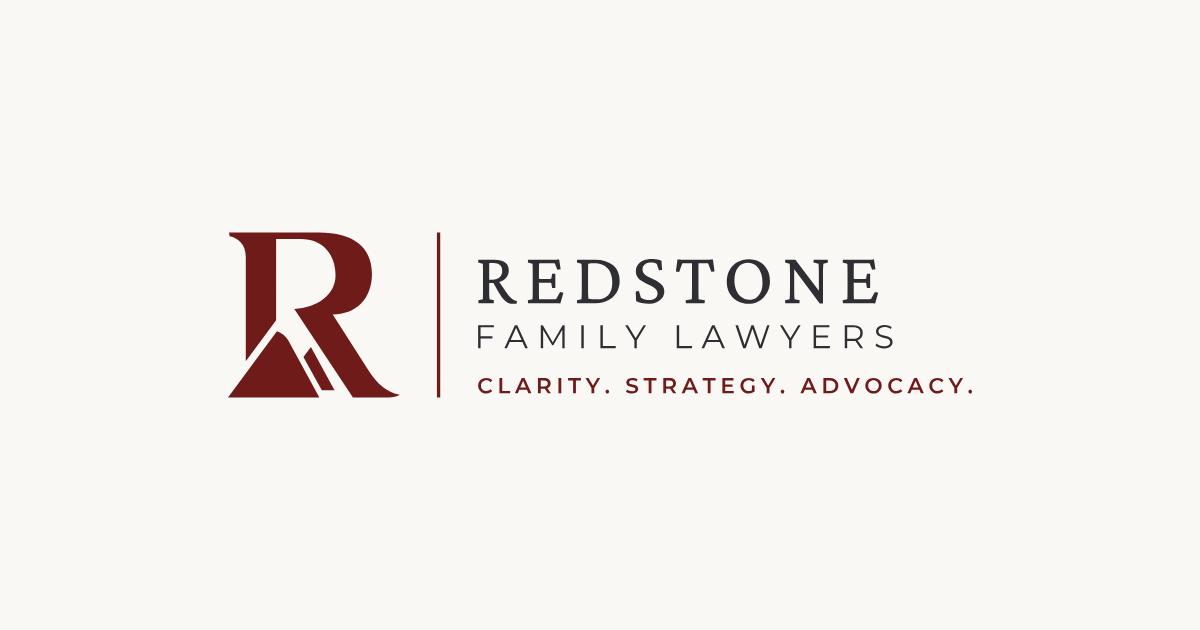
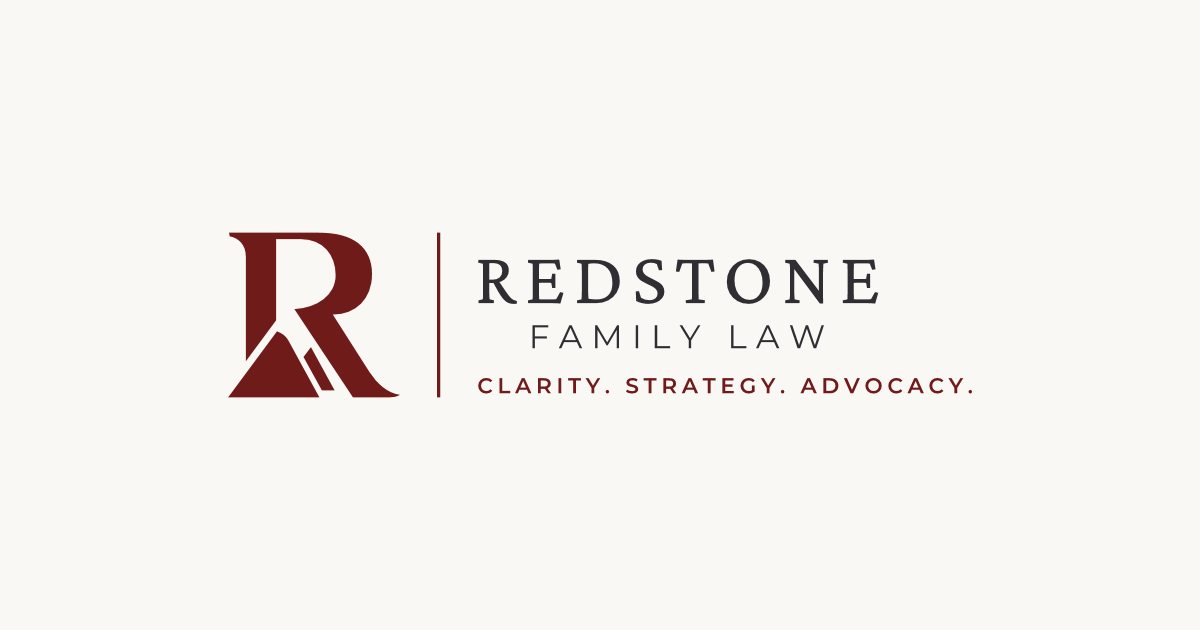
Rename firm to Redstone Family Law
The firm changed its name from "Redstone Family Lawyers" to
"Redstone Family Law". This updates the site to match:

- Re-letter the logo wordmark. The lockups are outlined vector
  paths, not live text, so the YERS glyphs are removed and the
  remaining FAMILY LAW run is re-centred under REDSTONE at the
  original 0.2em tracking rather than tracked out to fill.
- Update copy, alt text, aria-labels, NAP blocks and JSON-LD name.
  Descriptive uses of "family lawyer" as a profession or search
  term are deliberately left alone.
- Add alternateName so search engines bridge the old brand name.
- Point canonical and OG URLs at redstonefamilylaw.vercel.app.
- Regenerate og-image from the updated lockup.

Changed region(s): [[0.4008, 0.5127, 0.74, 0.573]]

diff --git a/index.html b/index.html
@@ -13,15 +13,15 @@
 <meta name="theme-color" content="#6F1B1A">
 
 <meta name="robots" content="noindex, nofollow">
-<link rel="canonical" href="https://redstonefamilylawyers.vercel.app/">
-<meta property="og:url" content="https://redstonefamilylawyers.vercel.app/">
+<link rel="canonical" href="https://redstonefamilylaw.vercel.app/">
+<meta property="og:url" content="https://redstonefamilylaw.vercel.app/">
 <meta property="og:type" content="website">
 <meta property="og:title" content="Family Lawyer in Red Deer, AB | Clarity, Strategy, Advocacy">
 <meta property="og:description" content="Flat-rate pricing, a same-day response for real emergencies, and a Red Deer family lawyer who explains your options in plain language before you decide.">
-<meta property="og:image" content="https://redstonefamilylawyers.vercel.app/og-image-1200x630.png">
+<meta property="og:image" content="https://redstonefamilylaw.vercel.app/og-image-1200x630.png">
 <meta property="og:image:width" content="1200">
 <meta property="og:image:height" content="630">
-<meta property="og:image:alt" content="Redstone Family Lawyers logo">
+<meta property="og:image:alt" content="Redstone Family Law logo">
 <meta name="twitter:card" content="summary_large_image">
 
 <link rel="preconnect" href="https://fonts.googleapis.com">
@@ -37,7 +37,8 @@
 {
   "@context": "https://schema.org",
   "@type": "LegalService",
-  "name": "Redstone Family Lawyers",
+  "name": "Redstone Family Law",
+  "alternateName": "Redstone Family Lawyers",
   "description": "Family law practice in Red Deer, Alberta: separation and divorce, parenting and custody, family property division, child support, family agreements, and protection and emergency matters.",
   "address": {
     "@type": "PostalAddress",
@@ -95,8 +96,8 @@
     <div class="siteheader__fill" aria-hidden="true"></div>
     <div class="siteheader__inner">
 
-      <a class="brand" href="#top" aria-label="Redstone Family Lawyers — back to top">
-        <img class="brand__mark brand__mark--dark" src="assets/logo/logo.svg" alt="Redstone Family Lawyers" width="403" height="100">
+      <a class="brand" href="#top" aria-label="Redstone Family Law — back to top">
+        <img class="brand__mark brand__mark--dark" src="assets/logo/logo.svg" alt="Redstone Family Law" width="403" height="100">
         <img class="brand__mark brand__mark--light" src="assets/logo/logo-white.svg" alt="" aria-hidden="true" width="403" height="100">
       </a>
 
@@ -217,7 +218,7 @@
 <div class="mobilesheet" id="mobilesheet" data-open="false" aria-hidden="true">
   <div class="mobilesheet__panel" role="dialog" aria-modal="true" aria-label="Site Menu">
     <div class="mobilesheet__head">
-      <img src="assets/logo/logo-white.svg" alt="Redstone Family Lawyers" width="403" height="100">
+      <img src="assets/logo/logo-white.svg" alt="Redstone Family Law" width="403" height="100">
       <button class="mobilesheet__close" type="button" aria-label="Close Menu">
         <svg viewBox="0 0 24 24" aria-hidden="true" focusable="false"><path d="M18 6 6 18M6 6l12 12"/></svg>
       </button>
@@ -654,7 +655,7 @@
           <span class="founder__topo-plate" aria-hidden="true"></span>
           <span class="founder__mono" aria-hidden="true">EO</span>
           <img class="founder__photo" src="assets/images/emmanuel-oyesomi-red-deer-family-lawyer.webp"
-               alt="Emmanuel Oyesomi, founder and family lawyer at Redstone Family Lawyers in Red Deer"
+               alt="Emmanuel Oyesomi, founder and family lawyer at Redstone Family Law in Red Deer"
                width="512" height="512" loading="lazy" decoding="async">
         </div>
         <figcaption class="founder__cap"><span class="founder__cap-rule" aria-hidden="true"></span>Emmanuel Oyesomi · Founder</figcaption>
@@ -886,12 +887,12 @@
         <div class="gbpcard">
           <div class="gbpcard__map">
             <iframe src="https://www.google.com/maps/embed?pb=!1m18!1m12!1m3!1d2441.600791727196!2d-113.81473902305673!3d52.26879397199641!2m3!1f0!2f0!3f0!3m2!1i1024!2i768!4f13.1!3m3!1m2!1s0x5374542f9d2ec0a1%3A0x8d4d8fe324da6d28!2s4909%2050%20St%20Ste%20200%2C%20Red%20Deer%2C%20AB%20T4N%206X2!5e0!3m2!1sen!2sca!4v1790099347766!5m2!1sen!2sca"
-                    title="Google Map showing Redstone Family Lawyers at 4909 50 St, Suite 200, Red Deer, AB"
+                    title="Google Map showing Redstone Family Law at 4909 50 St, Suite 200, Red Deer, AB"
                     width="400" height="300" loading="lazy" allowfullscreen
                     referrerpolicy="strict-origin-when-cross-origin"></iframe>
           </div>
           <div class="gbpcard__meta">
-            <p class="gbpcard__name">Redstone Family Lawyers</p>
+            <p class="gbpcard__name">Redstone Family Law</p>
             <a class="gbpcard__link" href="https://www.google.com/maps/search/?api=1&amp;query=4909+50+St+Suite+200+Red+Deer+AB+T4N+6X2" target="_blank" rel="noopener">
               Get Directions
               <svg class="icon" viewBox="0 0 24 24" aria-hidden="true" focusable="false"><path d="M5 12h14M13 6l6 6-6 6"/></svg>
@@ -903,7 +904,7 @@
       <section class="fcol fcol--nap" aria-labelledby="f-nap">
         <h2 class="fcol__h" id="f-nap">Our Office</h2>
         <address class="nap">
-          <span class="nap__name">Redstone Family Lawyers</span>
+          <span class="nap__name">Redstone Family Law</span>
           <span class="nap__line">4909 50 St, Suite 200, <span class="nap__nowrap">Red Deer, AB T4N 6X2</span></span>
           <span class="nap__line nap__line--stack">
             <a href="tel:+14039911470">(403) 991-1470</a>
@@ -944,17 +945,17 @@
     </div>
 
     <div class="sitefooter__base">
-      <a class="sitefooter__brand" href="#top" aria-label="Redstone Family Lawyers — back to top">
-        <img src="assets/logo/logo-white.svg" alt="Redstone Family Lawyers" width="403" height="100" loading="lazy">
+      <a class="sitefooter__brand" href="#top" aria-label="Redstone Family Law — back to top">
+        <img src="assets/logo/logo-white.svg" alt="Redstone Family Law" width="403" height="100" loading="lazy">
       </a>
-      <p class="copyright">© 2026 Redstone Family Lawyers.</p>
+      <p class="copyright">© 2026 Redstone Family Law.</p>
     </div>
   </div>
 </footer>
 
 <!-- Persistent mobile click-to-call -->
 <div class="callbar" role="group" aria-label="Quick Contact">
-  <a class="callbar__call" href="tel:+14039911470" aria-label="Call Redstone Family Lawyers at (403) 991-1470">
+  <a class="callbar__call" href="tel:+14039911470" aria-label="Call Redstone Family Law at (403) 991-1470">
     <svg class="icon" viewBox="0 0 24 24" aria-hidden="true" focusable="false"><path d="M22 16.92v3a2 2 0 0 1-2.18 2 19.79 19.79 0 0 1-8.63-3.07 19.5 19.5 0 0 1-6-6 19.79 19.79 0 0 1-3.07-8.67A2 2 0 0 1 4.11 2h3a2 2 0 0 1 2 1.72c.13.96.36 1.9.7 2.81a2 2 0 0 1-.45 2.11L8.09 9.91a16 16 0 0 0 6 6l1.27-1.27a2 2 0 0 1 2.11-.45c.9.34 1.85.57 2.81.7A2 2 0 0 1 22 16.92Z"/></svg>
   </a>
   <a class="callbar__cta" href="#contact" data-scroll>

diff --git a/script.js b/script.js
@@ -1,5 +1,5 @@
 /* ============================================================================
-   REDSTONE FAMILY LAWYERS — Master homepage (built on "Contemporary Counsel")
+   REDSTONE FAMILY LAW — Master homepage (built on "Contemporary Counsel")
    Vanilla JS only. Every effect is transform/opacity/filter driven, every
    effect has a reduced-motion path, and nothing here gates page content:
    all copy is in the HTML at load and JS only changes how it arrives.

diff --git a/style.css b/style.css
@@ -1,5 +1,5 @@
 /* ============================================================================
-   REDSTONE FAMILY LAWYERS — Master homepage (built on "Contemporary Counsel")
+   REDSTONE FAMILY LAW — Master homepage (built on "Contemporary Counsel")
    Style families: bold-geometric + editorial (asymmetric)
 
    SITE-WIDE SIGNATURE — "The Redstone Cut"

diff --git a/brand-tokens.css b/brand-tokens.css
@@ -1,4 +1,4 @@
-/* Redstone Family Lawyers: brand tokens (colours, fonts, spacing)
+/* Redstone Family Law: brand tokens (colours, fonts, spacing)
    Load the fonts once in <head>:
    <link rel="preconnect" href="https://fonts.googleapis.com">
    <link rel="preconnect" href="https://fonts.gstatic.com" crossorigin>

diff --git a/README.md b/README.md
@@ -1,4 +1,4 @@
-# Redstone Family Lawyers — homepage demo
+# Redstone Family Law — homepage demo
 
 Static site (HTML/CSS/JS, no build step). Deployed on Vercel from `main`.
 
